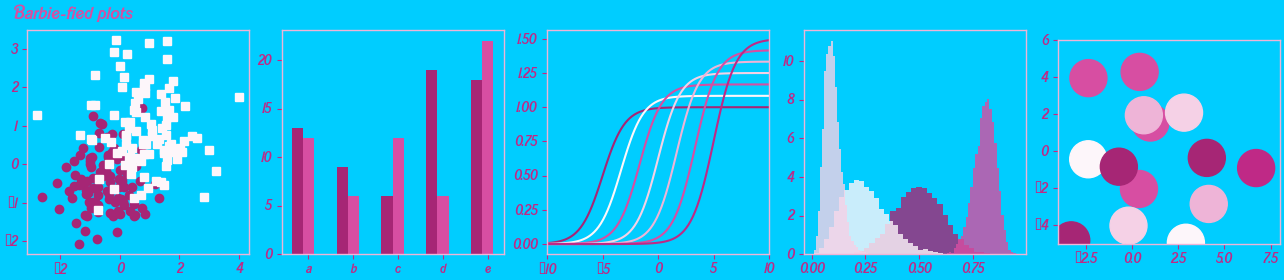
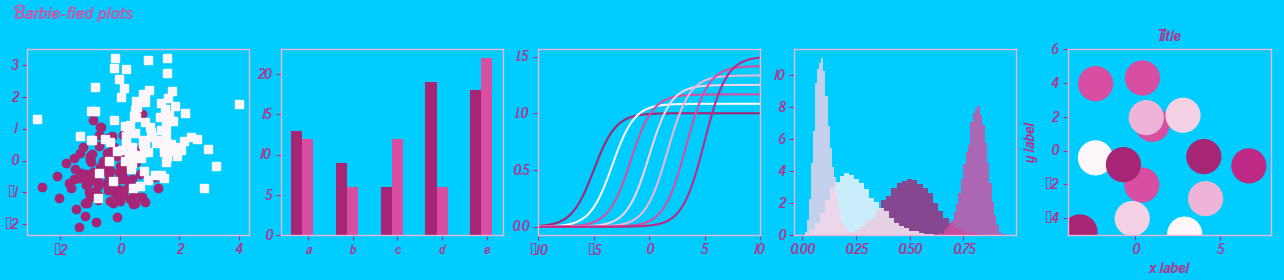
Fix negative sign and title/label colours

diff --git a/barbie_style_demo.py b/barbie_style_demo.py
@@ -1,14 +1,17 @@
 import numpy as np
 import matplotlib.pyplot as plt
-import matplotlib.colors as mcolors
 import matplotlib.font_manager as font_manager
 from matplotlib import rcParams
 
 # Fixing random state for reproducibility
 np.random.seed(19680801)
 
+# Add Barbie font to the list of available fonts
 font_manager.fontManager.addfont('barbie.ttf')
 rcParams['font.family'] = 'Barbie'
+
+# Use hyphen instead of Unicode minus
+rcParams['axes.unicode_minus'] = False
 
 def plot_scatter(ax, prng, nb_samples=100):
     """Scatter plot."""
@@ -61,7 +64,11 @@ def plot_colored_circles(ax, prng, nb_samples=15):
     ax.set_xlim([-4, 8])
     ax.set_ylim([-5, 6])
     ax.set_aspect('equal', adjustable='box')  # to plot circles as circles
+    ax.set_xlabel('x label')
+    ax.set_ylabel('y label')
+    ax.set_title('Title')
     return ax
+
 
 def plot_histograms(ax, prng, nb_samples=10000):
     """Plot 4 histograms and a text annotation."""

diff --git a/README.md b/README.md
@@ -1,6 +1,6 @@
 # barbie-matplotlib
 
-A (mostly working) Barbie style for matplotlib, inspired by [theme_barbie.R](https://github.com/MatthewBJane/theme_park/blob/main/theme_barbie.R)
+A Barbie style for matplotlib, inspired by [theme_barbie.R](https://github.com/MatthewBJane/theme_park/blob/main/theme_barbie.R)
 
 ## Usage
 
